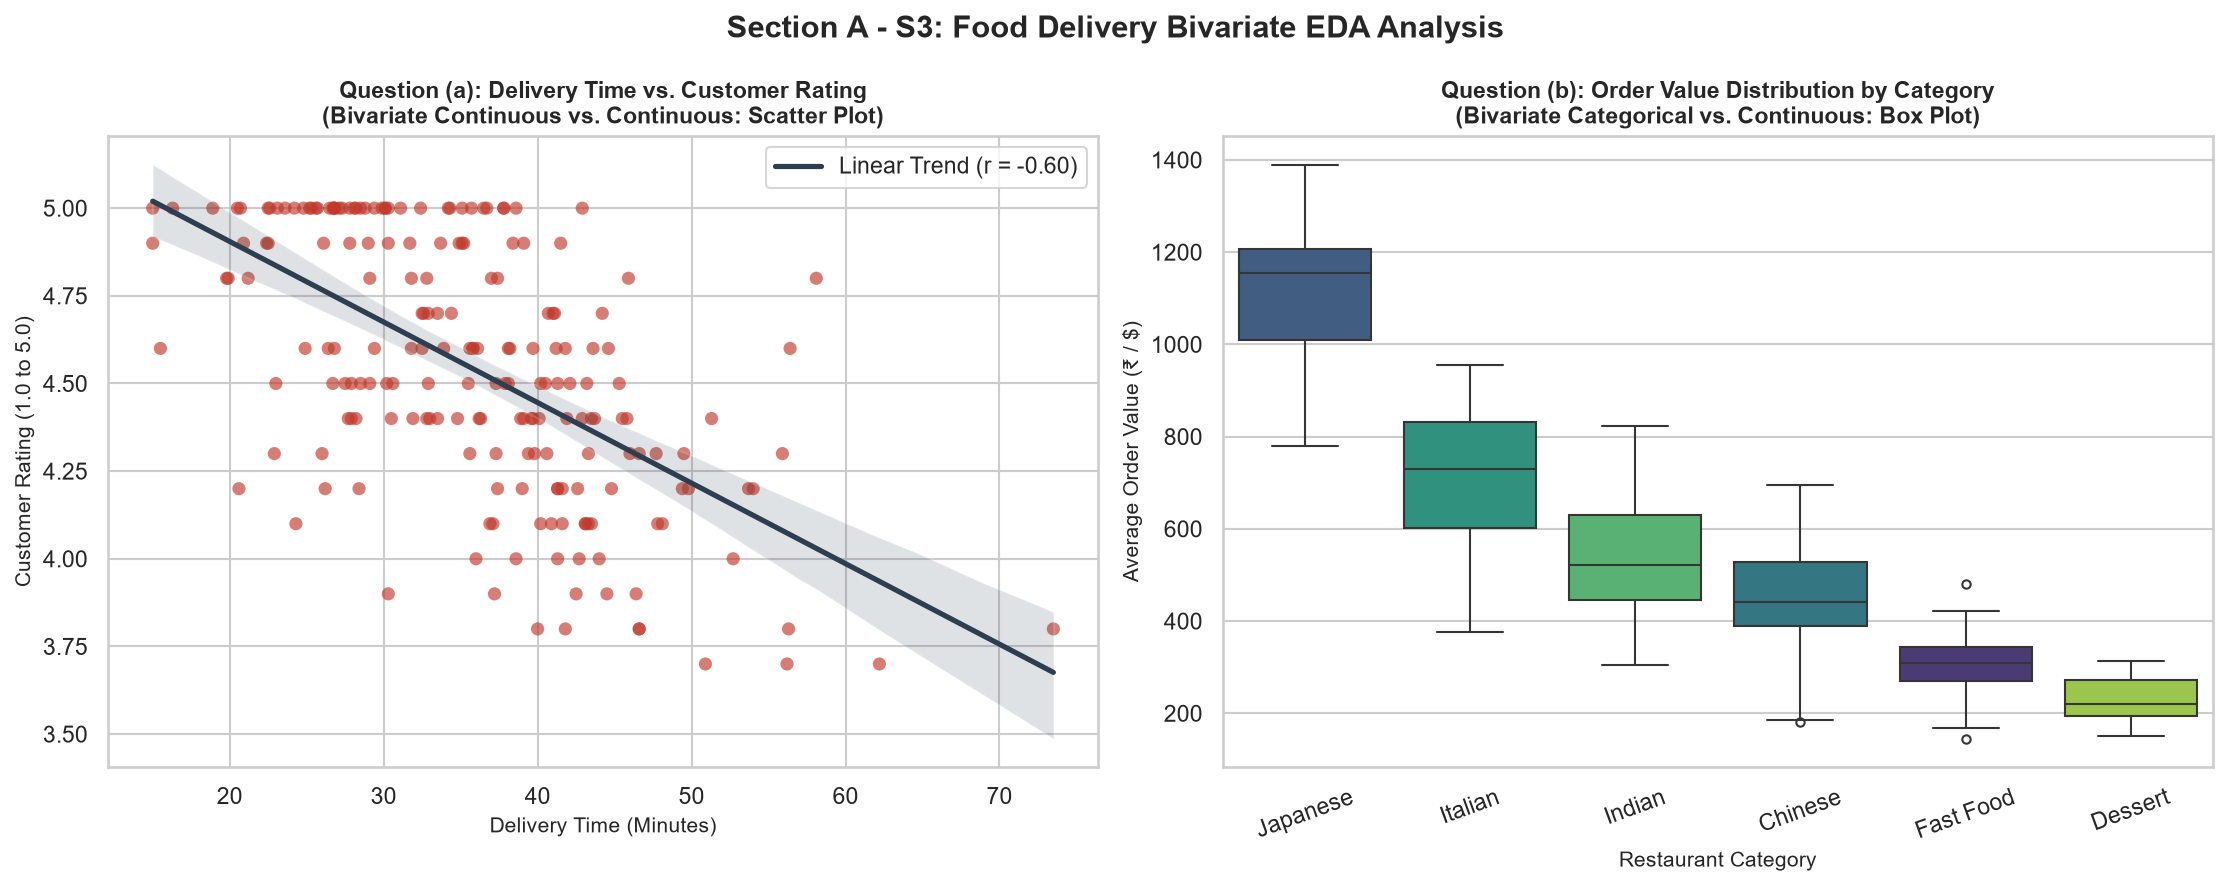
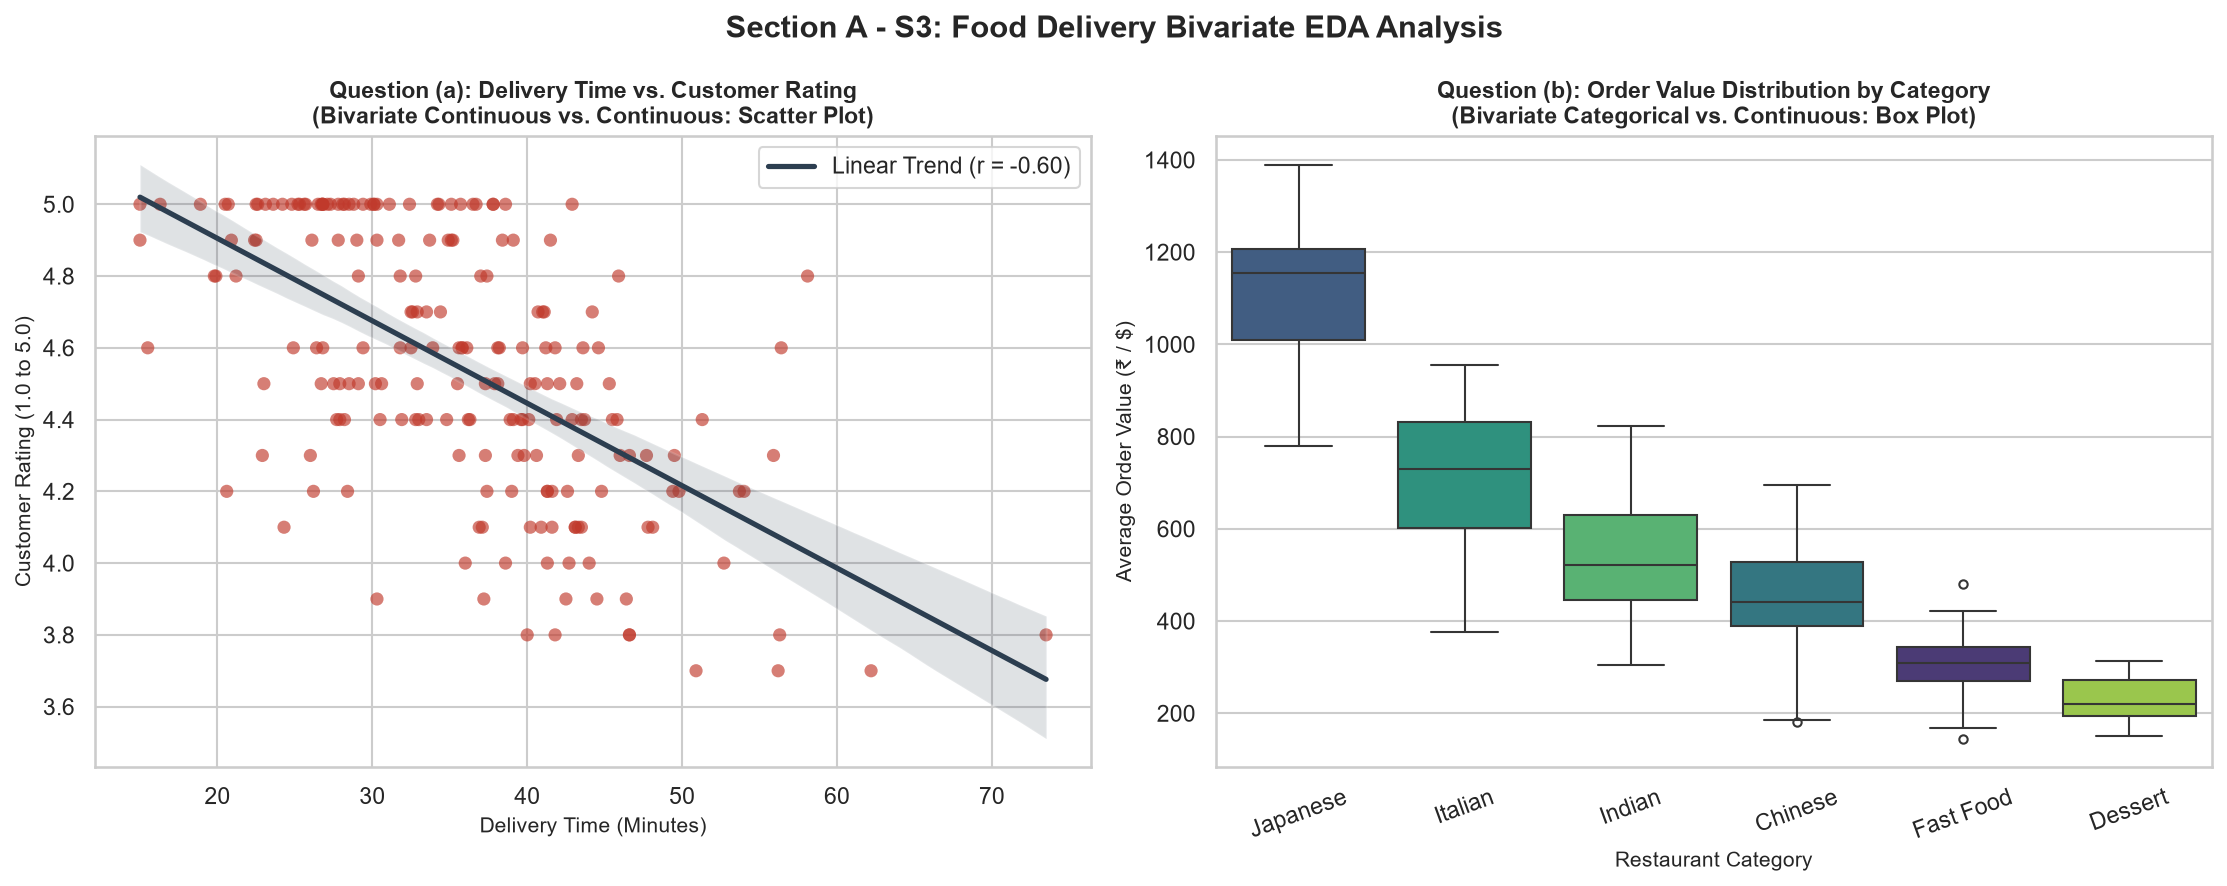
Audit and verify all sections: ensure relative GitHub markdown links and validate all scripts execution

diff --git a/SQL/Section A/Section_A_Concept_Application.md b/SQL/Section A/Section_A_Concept_Application.md
@@ -8,7 +8,7 @@
 ## Question S1: Data Cleaning Strategy (Pandas)
 
 * **Preferred Language & Library**: Python 3 / Pandas (`pandas`)
-* **Dedicated Implementation Script**: [`section_a_q1_pandas.py`](file:///C:/Users/gadhi/.gemini/antigravity-ide/scratch/DS-work/SQL/section_a_q1_pandas.py)
+* **Dedicated Implementation Script**: [`section_a_q1_pandas.py`](section_a_q1_pandas.py)
 
 ### Scenario
 > You are a Data Analyst at a food delivery startup. You have loaded a dataset of 50,000 order records into a Pandas DataFrame. The `'delivery_time_mins'` column has 14% missing values, and the `'customer_rating'` column contains some entries stored as strings (e.g., `'4.5'`) instead of `float64`.
@@ -96,7 +96,7 @@ dtype: object
 ## Question S2: Vectorized Surge Day Detection (NumPy)
 
 * **Preferred Language & Library**: Python 3 / NumPy (`numpy`)
-* **Dedicated Implementation Script**: [`section_a_q2_numpy.py`](file:///C:/Users/gadhi/.gemini/antigravity-ide/scratch/DS-work/SQL/section_a_q2_numpy.py)
+* **Dedicated Implementation Script**: [`section_a_q2_numpy.py`](section_a_q2_numpy.py)
 
 ### Scenario
 > You are building a weekly performance report for a food delivery platform. You have a NumPy array of daily order counts across 30 days. Your manager wants to flag 'surge days' — days where the order count exceeds the mean by more than 1.5 standard deviations — and compute the total revenue only for those surge days using a matching revenue array.
@@ -171,8 +171,8 @@ Vectorized Speedup Factor        : ~50.1x FASTER than Python loop
 ## Question S3: Exploratory Data Analysis & Visualization (Seaborn)
 
 * **Preferred Language & Libraries**: Python 3 / Seaborn (`seaborn`) & Matplotlib (`matplotlib.pyplot`)
-* **Dedicated Implementation Script**: [`section_a_q3_seaborn.py`](file:///C:/Users/gadhi/.gemini/antigravity-ide/scratch/DS-work/SQL/section_a_q3_seaborn.py)
-* **Generated Image**: [`section_a_eda_plots.png`](file:///C:/Users/gadhi/.gemini/antigravity-ide/scratch/DS-work/SQL/section_a_eda_plots.png)
+* **Dedicated Implementation Script**: [`section_a_q3_seaborn.py`](section_a_q3_seaborn.py)
+* **Generated Image**: [`section_a_eda_plots.png`](section_a_eda_plots.png)
 
 ### Scenario
 > You are conducting EDA for a food delivery product team. Your dataset contains columns: `restaurant_category`, `average_order_value`, `customer_rating`, and `delivery_time_mins`. The team wants to know (a) whether delivery time is correlated with customer rating, and (b) how average order value is distributed across restaurant categories.
@@ -192,7 +192,7 @@ Vectorized Speedup Factor        : ~50.1x FASTER than Python loop
 ## Question S4: SQL Joins for Comprehensive Reporting
 
 * **Preferred Technology**: SQL (SQLite)
-* **Dedicated SQL Script**: [`section_a_q4_joins.sql`](file:///C:/Users/gadhi/.gemini/antigravity-ide/scratch/DS-work/SQL/section_a_q4_joins.sql)
+* **Dedicated SQL Script**: [`section_a_q4_joins.sql`](section_a_q4_joins.sql)
 
 ### Scenario
 > You are managing a food delivery database with three tables: `orders` (`order_id`, `customer_id`, `restaurant_id`, `order_value`), `restaurants` (`restaurant_id`, `name`, `city`, `category`), and `customers` (`customer_id`, `name`, `area`). A business team asks for a report showing every restaurant's name and total revenue, including restaurants that have not yet received any orders.
@@ -248,7 +248,7 @@ ORDER BY total_revenue DESC;
 ## Question S5: SQL Window Functions vs. GROUP BY
 
 * **Preferred Technology**: SQL (SQLite)
-* **Dedicated SQL Script**: [`section_a_q5_window_functions.sql`](file:///C:/Users/gadhi/.gemini/antigravity-ide/scratch/DS-work/SQL/section_a_q5_window_functions.sql)
+* **Dedicated SQL Script**: [`section_a_q5_window_functions.sql`](section_a_q5_window_functions.sql)
 
 ### Scenario
 > You are working on a food delivery analytics dashboard. Management wants to rank all delivery agents within each city by their number of completed deliveries for the current month, and also display how each agent's count compares to the agent ranked directly above them in that city.
@@ -314,7 +314,7 @@ ORDER BY city ASC, city_rank ASC;
 ## Question S6: CTE (WITH Clause) vs. Nested Subquery
 
 * **Preferred Technology**: SQL (SQLite)
-* **Dedicated SQL Script**: [`section_a_q6_cte_vs_subquery.sql`](file:///C:/Users/gadhi/.gemini/antigravity-ide/scratch/DS-work/SQL/section_a_q6_cte_vs_subquery.sql)
+* **Dedicated SQL Script**: [`section_a_q6_cte_vs_subquery.sql`](section_a_q6_cte_vs_subquery.sql)
 
 ### Scenario
 > You are optimising a SQL report for a food delivery operations team. The report first identifies the top 5 restaurant categories by total order count, and then retrieves the full order details only for restaurants belonging to those top categories. A colleague has written this as a deeply nested subquery inside the WHERE clause.

diff --git a/SQL/Section B/Section_B_Practical_Tasks.md b/SQL/Section B/Section_B_Practical_Tasks.md
@@ -10,7 +10,7 @@
 ### Preferred Language & Libraries
 * **Language**: Python 3
 * **Library**: NumPy (`numpy`)
-* **Script**: [`task1_numpy_analysis.py`](file:///C:/Users/gadhi/.gemini/antigravity-ide/scratch/DS-work/SQL/task1_numpy_analysis.py)
+* **Script**: [`task1_numpy_analysis.py`](task1_numpy_analysis.py)
 
 ### Requirements Implemented
 1. Generated two 30-element arrays with `np.random.seed(42)`:
@@ -106,7 +106,7 @@ TASK 1 COMPLETED SUCCESSFULLY
 ### Preferred Language & Libraries
 * **Language**: Python 3
 * **Library**: Pandas (`pandas`), NumPy (`numpy`)
-* **Script**: [`task2_data_cleaning.py`](file:///C:/Users/gadhi/.gemini/antigravity-ide/scratch/DS-work/SQL/task2_data_cleaning.py)
+* **Script**: [`task2_data_cleaning.py`](task2_data_cleaning.py)
 
 ### Requirements Implemented
 1. Created simulated food delivery orders DataFrame with 23 rows and 7 columns.
@@ -199,8 +199,8 @@ TASK 2 COMPLETED SUCCESSFULLY. FINAL CLEANED DATASET SHAPE: (20, 7)
 ### Preferred Language & Libraries
 * **Language**: Python 3
 * **Libraries**: Matplotlib (`matplotlib.pyplot`), Seaborn (`seaborn`), Pandas (`pandas`)
-* **Script**: [`task3_visualization_dashboard.py`](file:///C:/Users/gadhi/.gemini/antigravity-ide/scratch/DS-work/SQL/task3_visualization_dashboard.py)
-* **Generated Image**: [`food_delivery_dashboard.png`](file:///C:/Users/gadhi/.gemini/antigravity-ide/scratch/DS-work/SQL/food_delivery_dashboard.png)
+* **Script**: [`task3_visualization_dashboard.py`](task3_visualization_dashboard.py)
+* **Generated Image**: [`food_delivery_dashboard.png`](food_delivery_dashboard.png)
 
 ### Requirements Implemented
 1. Created a $2 \times 2$ subplot grid: `fig, axes = plt.subplots(2, 2, figsize=(14, 10))`.
@@ -232,10 +232,10 @@ SECTION B - TASK 3: FOOD DELIVERY VISUALISATION DASHBOARD
 ### Preferred Language & Technologies
 * **Languages**: Python 3 & SQL
 * **Modules**: `sqlite3`, `pandas`, `tabulate`
-* **Python Script**: [`task4_sql_performance.py`](file:///C:/Users/gadhi/.gemini/antigravity-ide/scratch/DS-work/SQL/task4_sql_performance.py)
-* **SQL Query File**: [`task4_queries.sql`](file:///C:/Users/gadhi/.gemini/antigravity-ide/scratch/DS-work/SQL/task4_queries.sql)
+* **Python Script**: [`task4_sql_performance.py`](task4_sql_performance.py)
+* **SQL Query File**: [`task4_queries.sql`](task4_queries.sql)
 * **Database**: `food_delivery.db`
-* **Exported CSV**: [`restaurant_performance_report.csv`](file:///C:/Users/gadhi/.gemini/antigravity-ide/scratch/DS-work/SQL/restaurant_performance_report.csv)
+* **Exported CSV**: [`restaurant_performance_report.csv`](restaurant_performance_report.csv)
 
 ### SQL Query Implemented
 ```sql

diff --git a/SQL/Section C/Section_C_Mini_Capstone.md b/SQL/Section C/Section_C_Mini_Capstone.md
@@ -3,7 +3,7 @@
 **Program**: Data Science  
 **Modules**: Modules 3–4 (Data Collection, Cleaning & Visualization › Working with Databases)  
 **Preferred Stack**: Python 3, Pandas, SQLite (`sqlite3`), Seaborn & Matplotlib, `openpyxl`, `tabulate`  
-**Main Application Script**: [`food_delivery_app.py`](file:///C:/Users/gadhi/.gemini/antigravity-ide/scratch/DS-work/SQL/Section%20C/food_delivery_app.py)
+**Main Application Script**: [`food_delivery_app.py`](food_delivery_app.py)
 
 ---
 
@@ -45,7 +45,7 @@ The application runs an interactive CLI loop offering 5 operations:
   - Displays post-cleaning data quality confirmation and sample records.
 
 * **`Option 2: Run SQL Analysis`**:
-  - Connects to SQLite database [`food_delivery.db`](file:///C:/Users/gadhi/.gemini/antigravity-ide/scratch/DS-work/SQL/Section%20C/food_delivery.db).
+  - Connects to SQLite database [`food_delivery.db`](food_delivery.db).
   - **Query 1 (Aggregation)**: Executes `GROUP BY` with `COUNT(DISTINCT r.restaurant_id)`, `COUNT(o.order_id)`, `SUM(order_value)`, `AVG(order_value)`, and `AVG(rating)` by category.
   - **Query 2 (Multi-table JOIN)**: Executes an `INNER JOIN` between `orders` and `restaurants` retrieving order values, customer names, restaurant names, categories, and cities.
   - Displays results formatted via `tabulate(..., tablefmt='psql')`.
@@ -55,10 +55,10 @@ The application runs an interactive CLI loop offering 5 operations:
   - **Left Subplot**: Seaborn `countplot` displaying total order count per restaurant category.
   - **Right Subplot**: Seaborn `barplot` showing average delivery time by city.
   - Annotates counts and delivery values directly on the bars.
-  - Saves the figure as [`section_c_charts.png`](file:///C:/Users/gadhi/.gemini/antigravity-ide/scratch/DS-work/SQL/Section%20C/section_c_charts.png).
+  - Saves the figure as [`section_c_charts.png`](section_c_charts.png).
 
 * **`Option 4: Export Report`**:
-  - Uses `pd.ExcelWriter(..., engine='openpyxl')` to package deliverables into [`food_delivery_report.xlsx`](file:///C:/Users/gadhi/.gemini/antigravity-ide/scratch/DS-work/SQL/Section%20C/food_delivery_report.xlsx).
+  - Uses `pd.ExcelWriter(..., engine='openpyxl')` to package deliverables into [`food_delivery_report.xlsx`](food_delivery_report.xlsx).
   - Sheet 1: `Cleaned_Orders` (complete 20-row cleaned dataset).
   - Sheet 2: `Category_SQL_Summary` (category-level aggregation query output).
   - Sheet 3: `Top_Orders_JOIN` (detailed multi-table JOIN output).
